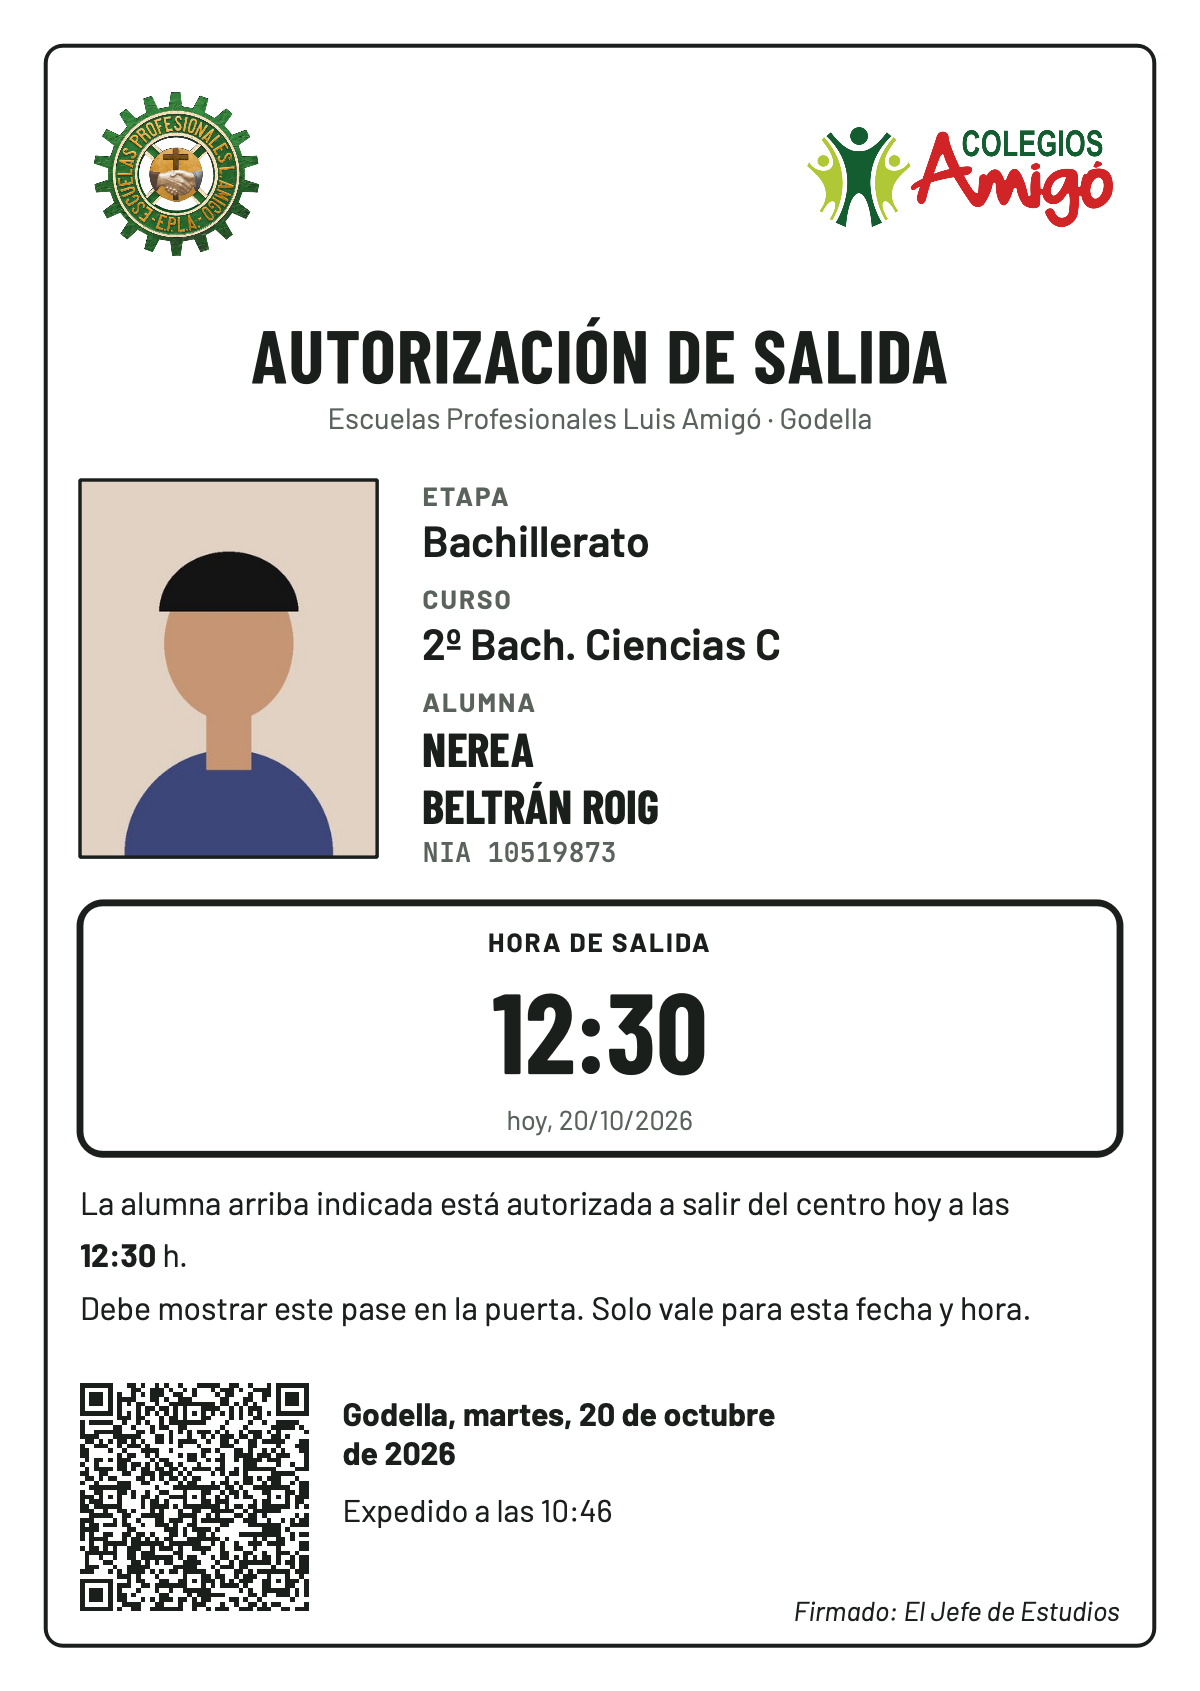
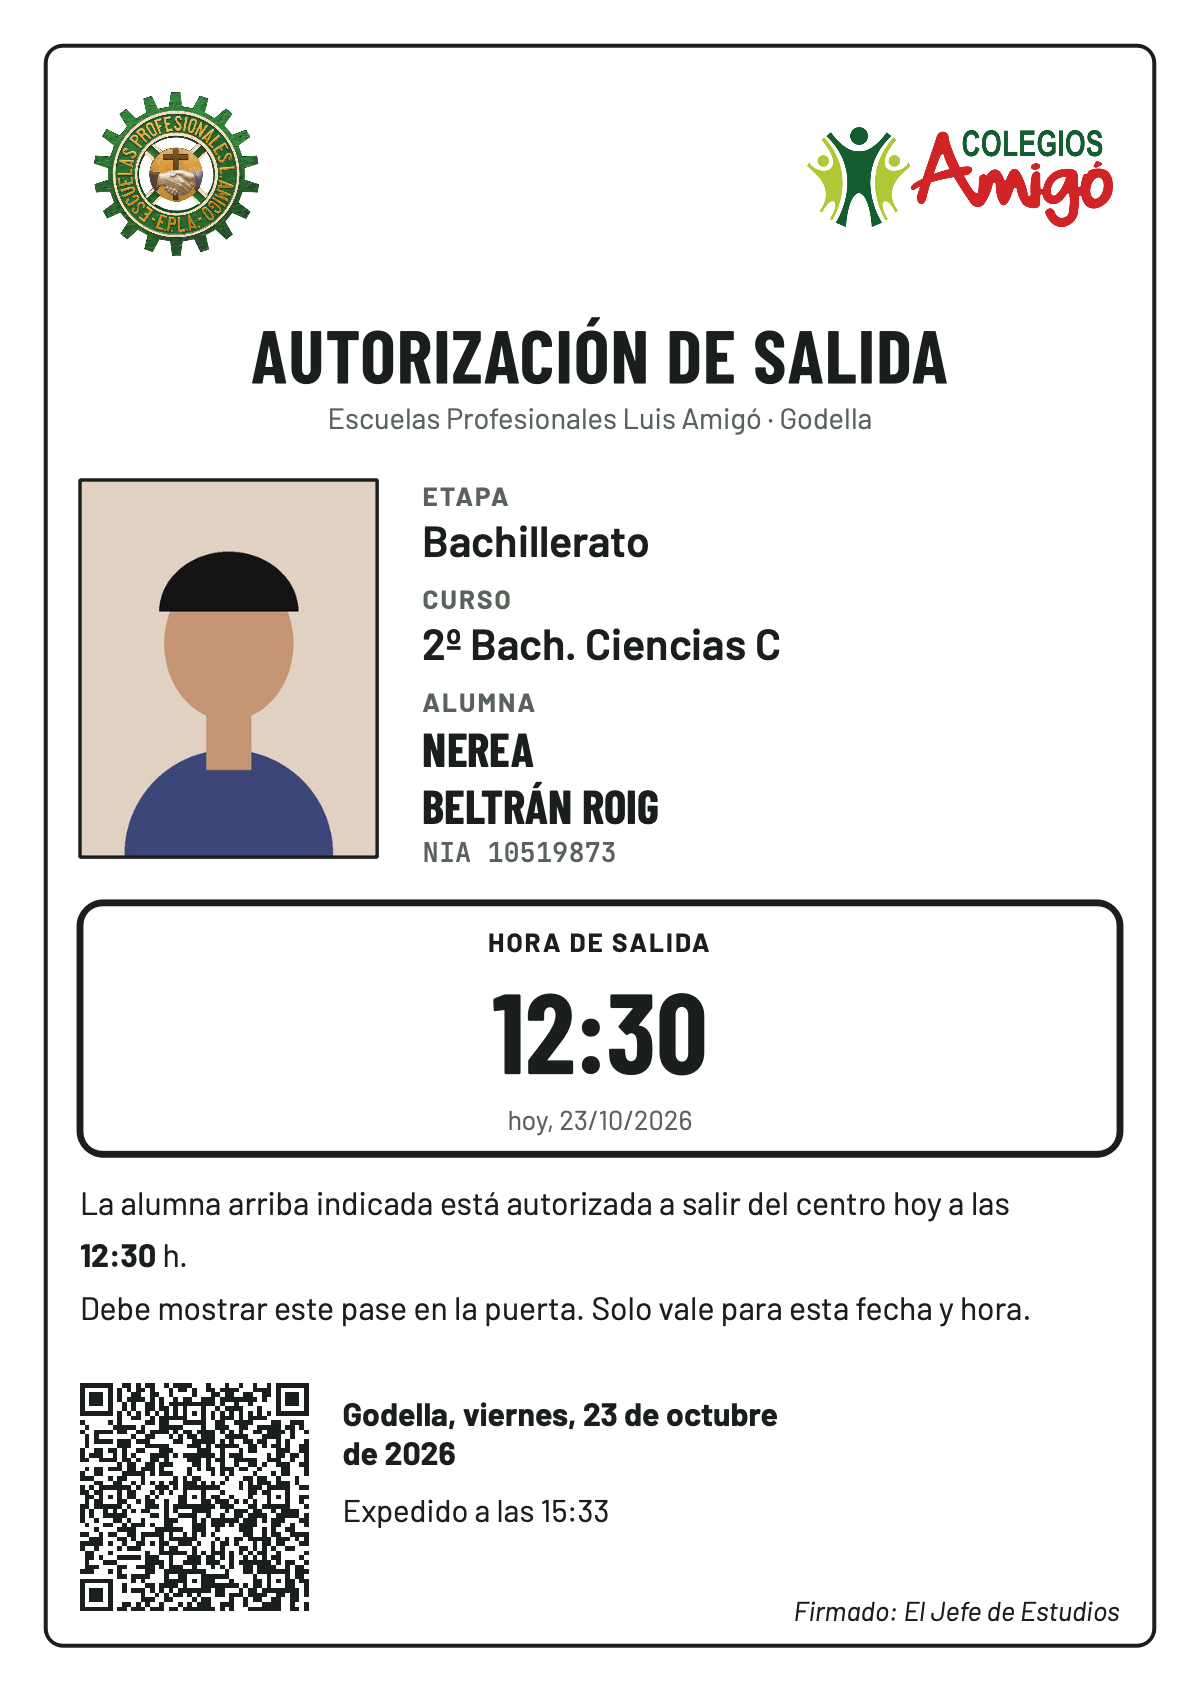
fix(parte): el QR impreso sale entero: sin simplified(), que perdía módulos con escala decimal (v1.4.2)

diff --git a/tests/test_ajustes_y_parte.py b/tests/test_ajustes_y_parte.py
@@ -75,6 +75,29 @@ def test_parte_a6_se_dibuja_en_proporcion(qapp, datos):
     assert oscuros > 500, "el parte no puede salir en blanco"
 
 
+@pytest.mark.parametrize("ancho_px", [1200, 1480, 1750, 2400])
+def test_el_qr_del_parte_sale_entero(qapp, datos, ancho_px):
+    """Regresión: unir los módulos con `simplified()` perdía tramos con escala decimal (PDF, impresora):
+    a los cuadros de las esquinas les faltaba un lado y ningún lector reconocía el QR."""
+    import segno
+
+    from partes_salida.parte import HORIZONTAL
+
+    qr = "PS1|7A90B341|10519873|202610081230|202610080914|" + "mQ3v" * 21 + "Ab"  # largo real: versión 8
+    a = Alumno(id="1", nia="10519873", nombre="NEREA", apellido1="BELTRÁN", sexo="F", clase="2BACC")
+    datos_parte = DatosParte(a, None, datetime(2026, 10, 8, 12, 30), datetime(2026, 10, 8, 9, 14), qr)
+    g = GestorAjustes(datos)
+    img = imagen_parte(datos_parte, g, ImagenesParte(g), ancho_px)
+    matriz = [list(fila) for fila in segno.make(qr, error="m", boost_error=False).matrix_iter(border=0)]
+    n, escala = len(matriz), ancho_px / HORIZONTAL.ancho
+    x0, y0, lado = (v * escala for v in HORIZONTAL.qr[:3])
+    modulo = lado / n
+    malos = [(f, c) for f in range(n) for c in range(n)
+             if (img.pixelColor(int(x0 + (c + 0.5) * modulo), int(y0 + (f + 0.5) * modulo)).lightness() < 128)
+             != bool(matriz[f][c])]
+    assert malos == []
+
+
 def test_parte_con_nombre_muy_largo_no_falla(qapp, datos):
     g = GestorAjustes(datos)
     a = Alumno(id="1", nombre="MARÍA DE LOS REMEDIOS INMACULADA", apellido1="FERNÁNDEZ-CASTELLANOS",

diff --git a/src/partes_salida/parte.py b/src/partes_salida/parte.py
@@ -179,10 +179,13 @@ def _qr(lienzo: _Lienzo, texto: str, caja: QRectF, tinta: QColor = TINTA) -> Non
             elif not v and x0 is not None:
                 camino.addRect(QRectF(caja.x() + x0 * modulo, caja.y() + y * modulo, (x - x0) * modulo, modulo))
                 x0 = None
+    # Un solo trazado con relleno de bobinado: los tramos que se tocan se pintan como uno, sin rendijas.
+    # Nada de `simplified()`: con escala decimal (PDF, impresora) perdía módulos y rompía el QR.
+    camino.setFillRule(Qt.FillRule.WindingFill)
     p = lienzo.p
     p.save()
     p.setRenderHint(QPainter.RenderHint.Antialiasing, False)
-    p.fillPath(camino.simplified(), QBrush(tinta))
+    p.fillPath(camino, QBrush(tinta))
     p.restore()
 
 

diff --git a/src/partes_salida/__init__.py b/src/partes_salida/__init__.py
@@ -1,4 +1,4 @@
 """Partes de salida: imprime el pase de salida del alumnado en DIN-A6."""
 
-__version__ = "1.4.1"
+__version__ = "1.4.2"
 NOMBRE_APP = "Partes de salida"

diff --git a/docs/PENDIENTE.md b/docs/PENDIENTE.md
@@ -12,6 +12,7 @@
 
 | Prioridad | Qué | Notas |
 | --- | --- | --- |
+| Media | En el PDF o el papel, el rótulo «HORA DE SALIDA» sale cortado y el título «AUTORIZACIÓN DE SALIDA» muy espaciado; en la vista previa, bien | Visto en un parte guardado como PDF (2026-10-23). Probablemente el espaciado de letras no escala con la resolución de la impresora |
 | Alta | Probar la web del vigilante en el móvil de la puerta con partes impresos: uno bueno de hoy, uno de otro día, uno antes de su hora y uno de un equipo sin dar de alta; también sin cobertura | Las pruebas automáticas cubren Chromium con cámara simulada, no un móvil real ni Safari en iPhone |
 | — | Las pruebas en equipos reales de la app de escritorio (lote de recurrentes, QR con el móvil, parte de prueba en la bandeja A6, primera instalación) las da por hechas CarlosFB (2026-10-20) | — |
 

diff --git a/CHANGELOG.md b/CHANGELOG.md
@@ -2,6 +2,12 @@
 
 Formato [Keep a Changelog](https://keepachangelog.com/es-ES/1.1.0/) y [SemVer](https://semver.org/lang/es/). La entrada de cada versión es también la nota de su release en GitHub. Lo más reciente arriba.
 
+## [1.4.2] - 2026-10-23
+
+### Corregido
+
+- **El QR del parte impreso no se podía leer.** Al imprimir o guardar en PDF, a los tres cuadros de las esquinas del QR les faltaba un lado y se perdían más trozos, así que ningún lector lo reconocía (la app del vigilante se quedaba con la cámara abierta sin hacer nada). Ahora el QR sale entero. **Los partes impresos con versiones anteriores no se pueden comprobar: hay que volver a imprimirlos.**
+
 ## [1.4.1] - 2026-10-23
 
 ### Corregido
